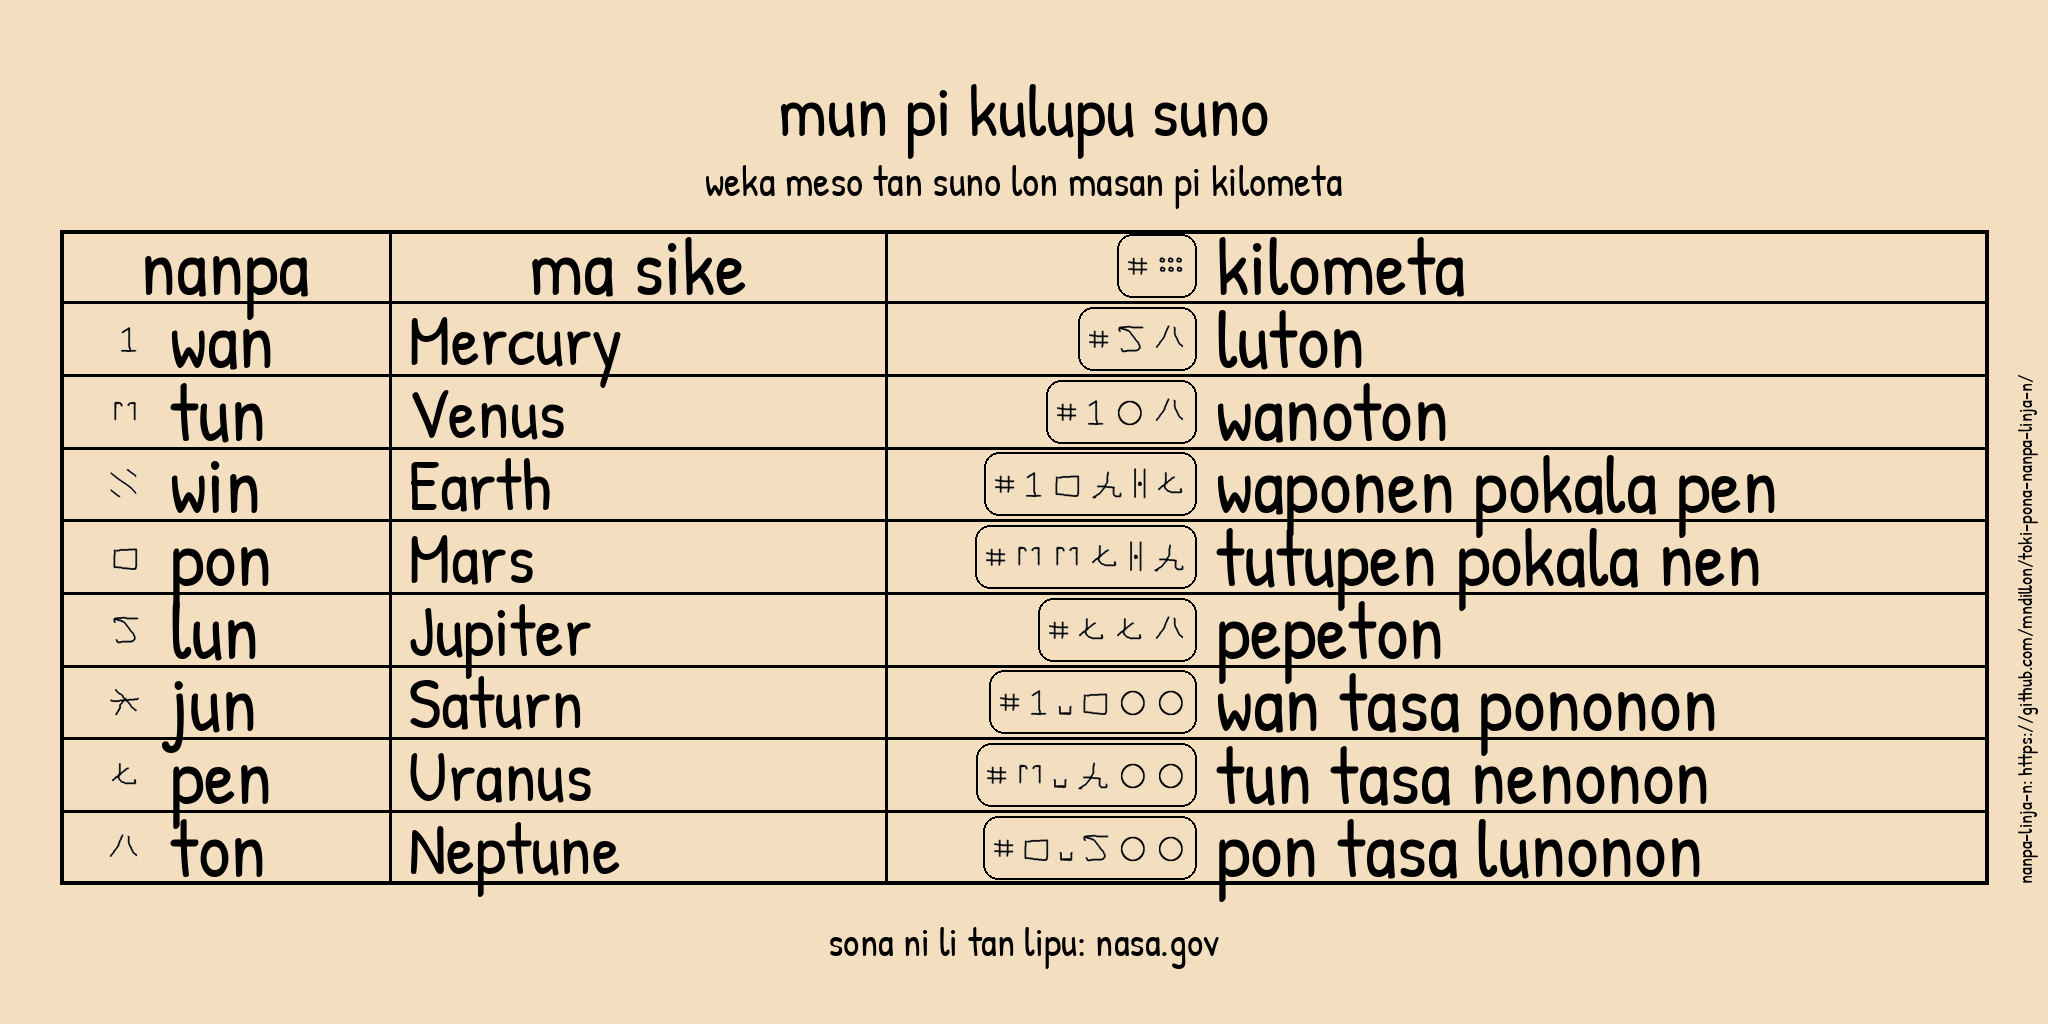
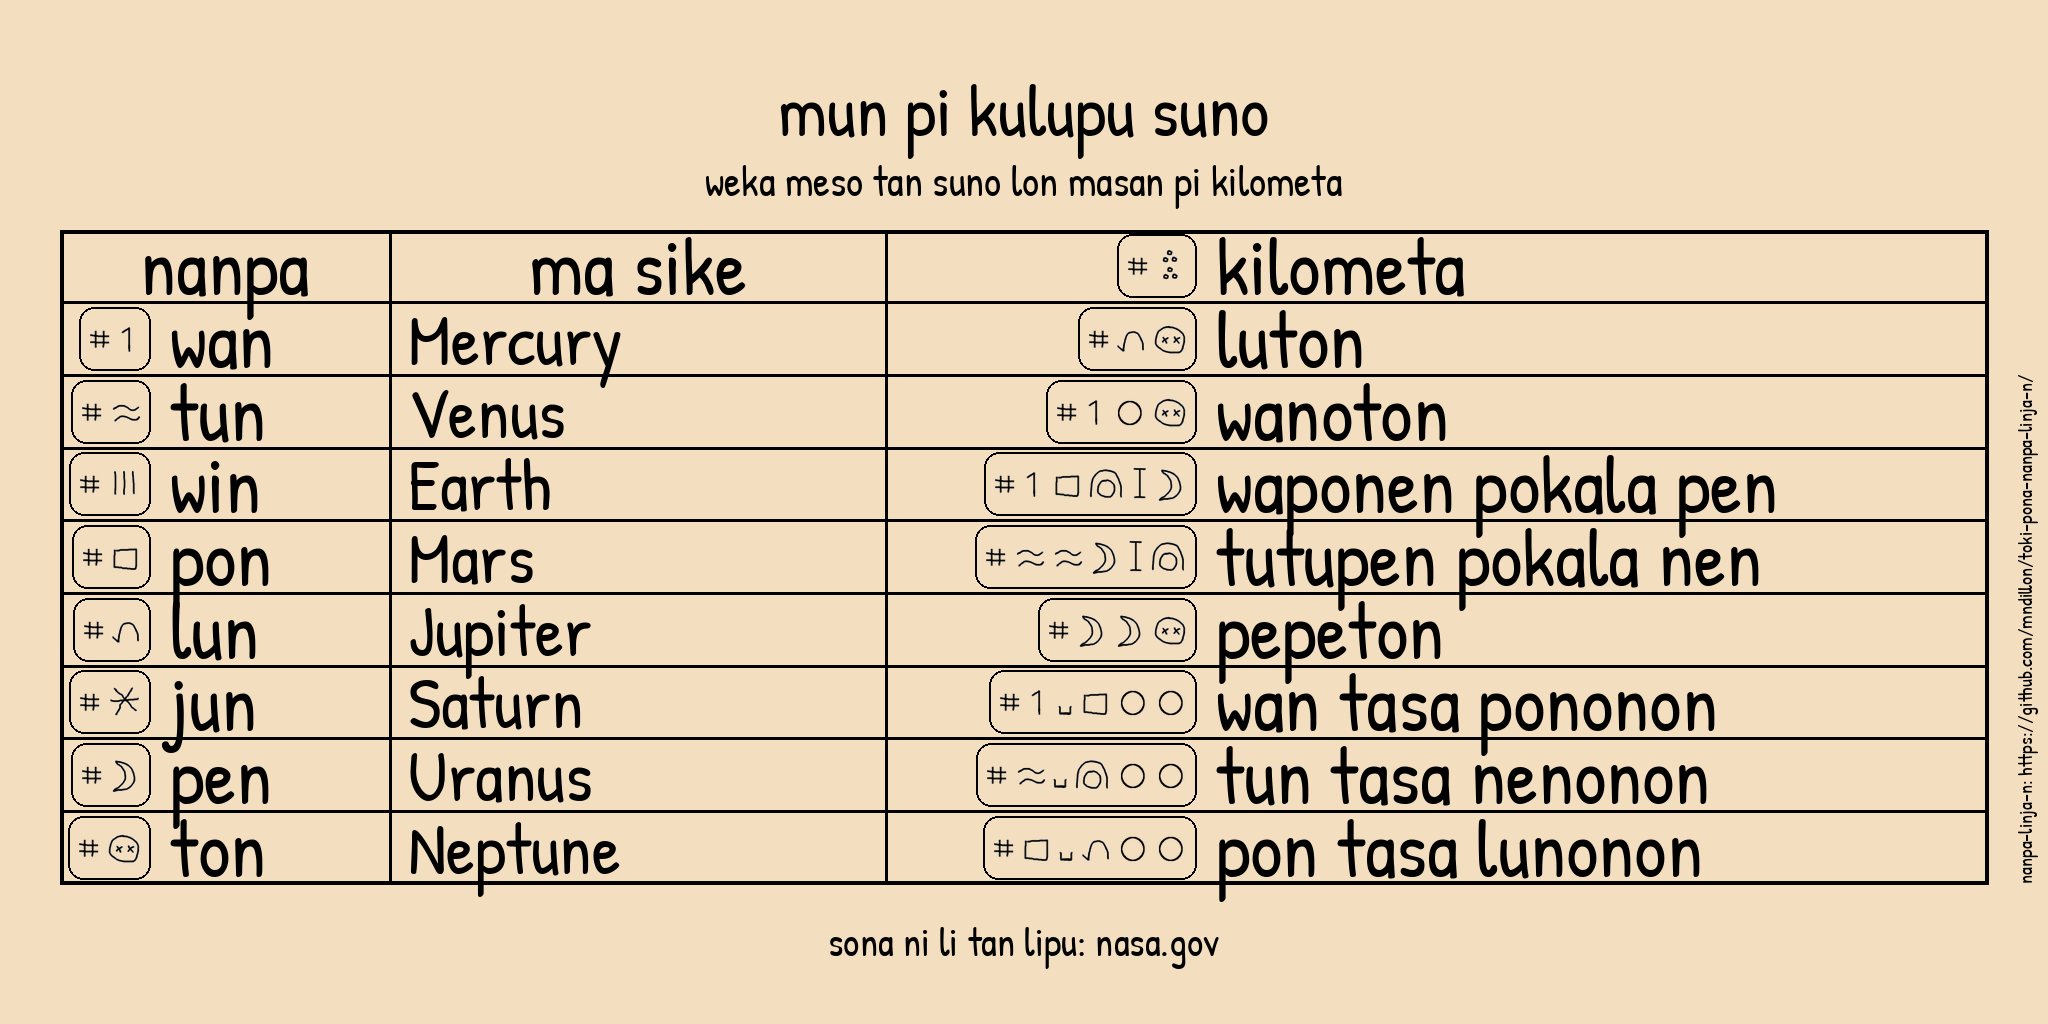
updated readme

diff --git a/README.md b/README.md
@@ -314,22 +314,22 @@ Prefix **ike** before any number:
 - numeric glyphs start with nanpa inside a cartouche, like a proper name, and re-purposing poki glyph for separators (nanpa and cartouche are optional)
 - can be displayed horizontally or vertically
 - example glyph for 42,386.75:
-- <img src="images/number_42386_75_glyph_v5.png" width="320"/>
+- <img src="images/number_42386_75_glyph_v6.png" width="320"/>
 - example glyph for 64.5M:
-- <img src="images/number_64_5_M_glyph_v2.png" width="160"/>
+- <img src="images/number_64_5_M_glyph_v3.png" width="160"/>
 
-| Glyph                                                                 | Name | Glyph                                                                         | Name                      |
-|----------------------------------------------------------       ------|------|-------------------------------------------------------------------------------|---------------------------|
-| <img src="images/horizontal 0 Circle No Lines Slim.png" width="32"/>  | non  | <img src="images/horizontal Decimal Delimiter No Lines.png" width="16"/>      | pokala/pakala             |
-| <img src="images/horizontal 1 No Lines Slim.png" width="32"/>         | wan  | <img src="images/horizontal Tasan No Lines Slim.png" width="16"/>             | tasan                     |
-| <img src="images/horizontal 2 No Lines Slim.png" width="32"/>         | tun  | <img src="images/horizontal Masan No Lines Slim.png" width="16"/>             | masan                     |
-| <img src="images/horizontal 3 No Lines Slim.png" width="32"/>         | win  | <img src="images/horizontal Wasan No Lines Slim.png" width="16"/>             | wasan                     |
-| <img src="images/horizontal 4 No Lines Slim.png" width="32"/>         | pon  | <img src="images/horizontal Thousands Delimiter No Lines v2.png" width="16"/> | tasa/masa/wasa/pasa/pasan |
-| <img src="images/horizontal 5 No Lines Slim.png" width="32"/>         | lun  | <img src="images/horizontal Negative No Lines Slim.png" width="16"/>          | ike                       |
-| <img src="images/horizontal 6 No Lines Slim.png" width="32"/>         | jun  | <img src="images/horizontal Fraction Delimiter No Lines.png" width="16"/>     | kipisi                    |
-| <img src="images/horizontal 7 No Lines Slim.png" width="32"/>         | pen  | <img src="images/horizontal Number Symbol Slim.png" width="16"/>              | nanpa                     |
-| <img src="images/horizontal 8 No Lines Slim.png" width="32"/>         | ton  | <img src="images/horizontal Plus No Lines Slim.png" width="16"/>              | eme                       |
-| <img src="images/horizontal 9 No Lines Slim.png" width="32"/>         | nen  | <img src="images/horizontal Multiply No Lines Slim.png" width="16"/>          | emute                     |
+| Glyph                                                                    | Name | Glyph                                                                            | Name                      |
+|--------------------------------------------------------------------------|------|----------------------------------------------------------------------------------|---------------------------|
+| <img src="images/horizontal 0 Circle No Lines Slim Pu.png" width="32"/>  | non  | <img src="images/horizontal Decimal Delimiter Pu.png" width="16"/>               | pokala/pakala             |
+| <img src="images/horizontal 1 No Lines Slim Pu.png" width="32"/>         | wan  | <img src="images/horizontal Tasan No Lines Slim Pu.png" width="16"/>             | tasan                     |
+| <img src="images/horizontal 2 No Lines Slim Pu.png" width="32"/>         | tun  | <img src="images/horizontal Masan No Lines Slim Pu.png" width="16"/>             | masan                     |
+| <img src="images/horizontal 3 No Lines Slim Pu.png" width="32"/>         | win  | <img src="images/horizontal Wasan No Lines Slim Pu.png" width="16"/>             | wasan                     |
+| <img src="images/horizontal 4 No Lines Slim Pu.png" width="32"/>         | pon  | <img src="images/horizontal Thousands Delimiter No Lines Pu.png" width="16"/>    | tasa/masa/wasa/pasa/pasan |
+| <img src="images/horizontal 5 No Lines Slim Pu.png" width="32"/>         | lun  | <img src="images/horizontal Negative No Lines Slim Pu.png" width="16"/>          | ike                       |
+| <img src="images/horizontal 6 No Lines Slim Pu.png" width="32"/>         | jun  | <img src="images/horizontal Fraction Delimiter Pu.png" width="16"/>              | kipisi                    |
+| <img src="images/horizontal 7 No Lines Slim Pu.png" width="32"/>         | pen  | <img src="images/horizontal Number Symbol Slim Pu.png" width="16"/>              | nanpa                     |
+| <img src="images/horizontal 8 No Lines Slim Pu.png" width="32"/>         | ton  | <img src="images/horizontal Plus No Lines Slim Pu.png" width="16"/>              | eme                       |
+| <img src="images/horizontal 9 No Lines Slim Pu.png" width="32"/>         | nen  | <img src="images/horizontal Multiply No Lines Slim Pu.png" width="16"/>          | emute                     |
 
 
 ---
